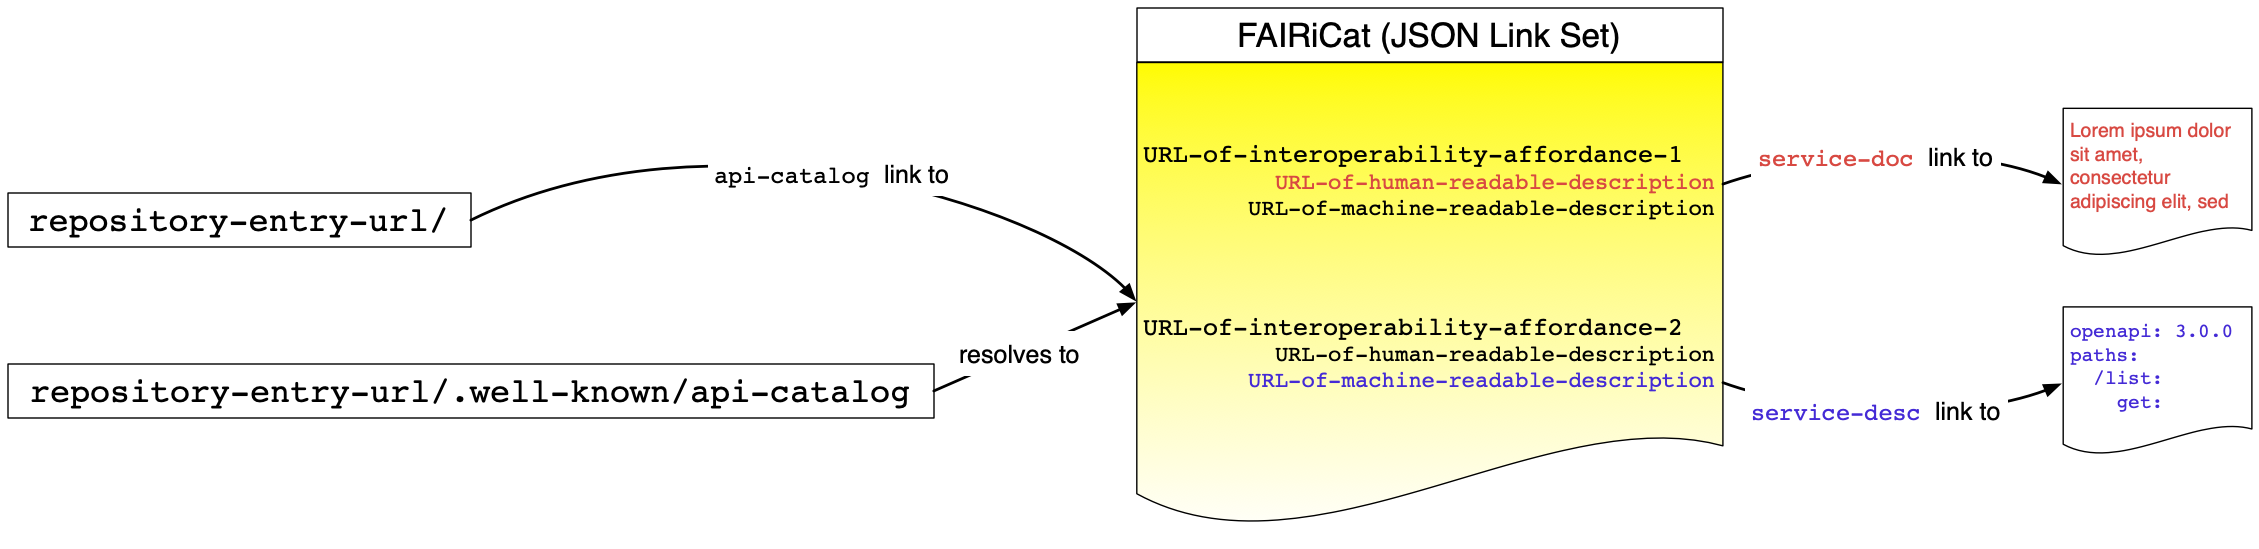
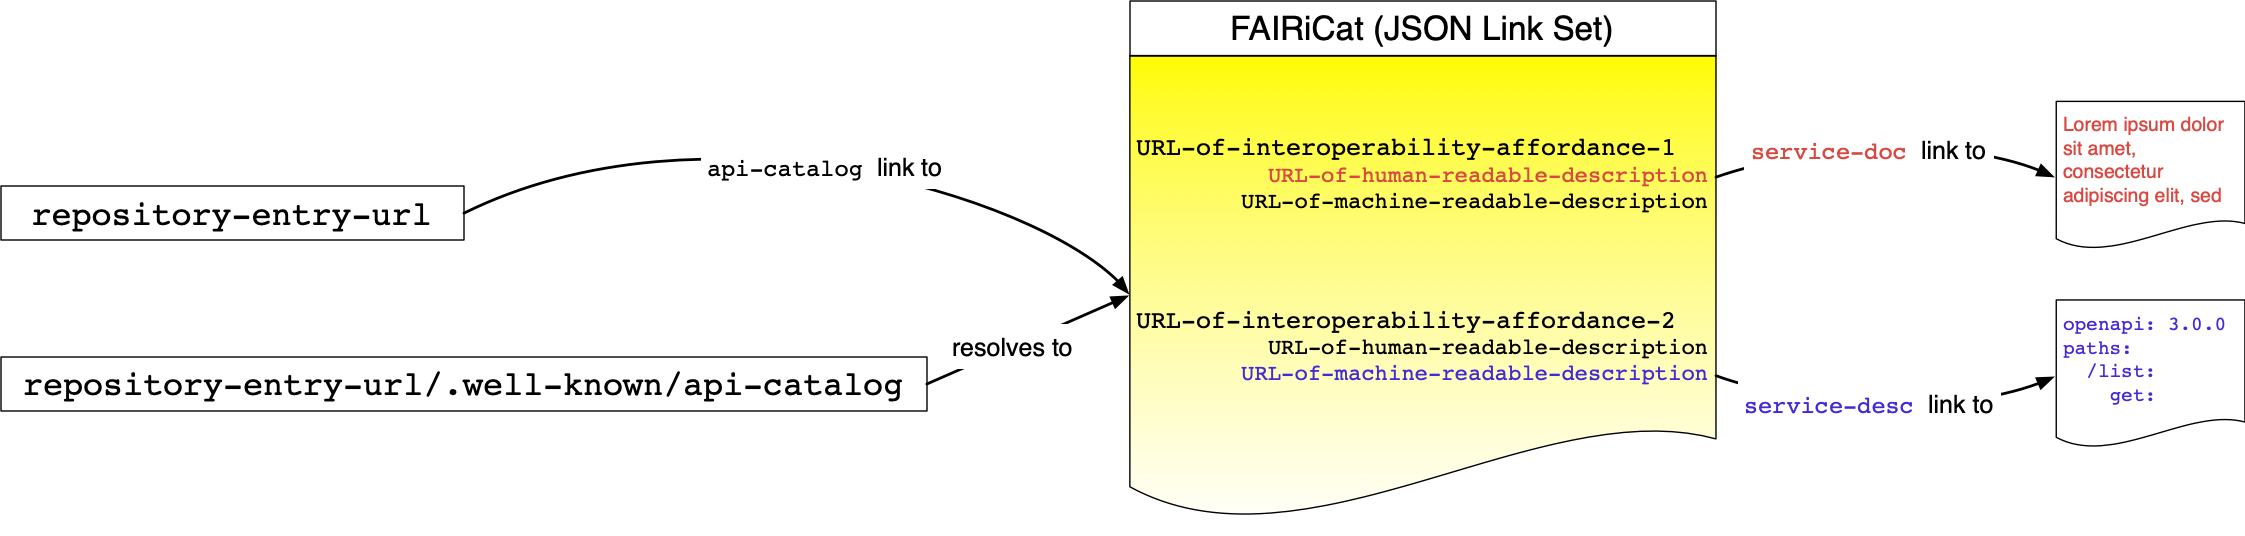
removed slash from repository-entry-url

diff --git a/FAIRiCat/index.html b/FAIRiCat/index.html
@@ -299,7 +299,7 @@ provides the URL of that document, i.e. the SPARQL 1.1 specification.</td>
                      </ul>
                      </li>
                      <li>Discovery via an <code>api-catalog</code> link provided at the <b>repository-entry-URL</b>: 
-                     An <b>HTTP HEAD/GET</b> request against &lt;repository-entry-URL/&gt;, 
+                     An <b>HTTP HEAD/GET</b> request against &lt;repository-entry-URL&gt;, 
                       must have an HTTP response header with a link that points at the repository's FAIRiCat Link Set. This link:
                 	<ul>
                 	<li>Must be provided in the HTTP <code>Link</code> header.</li>
